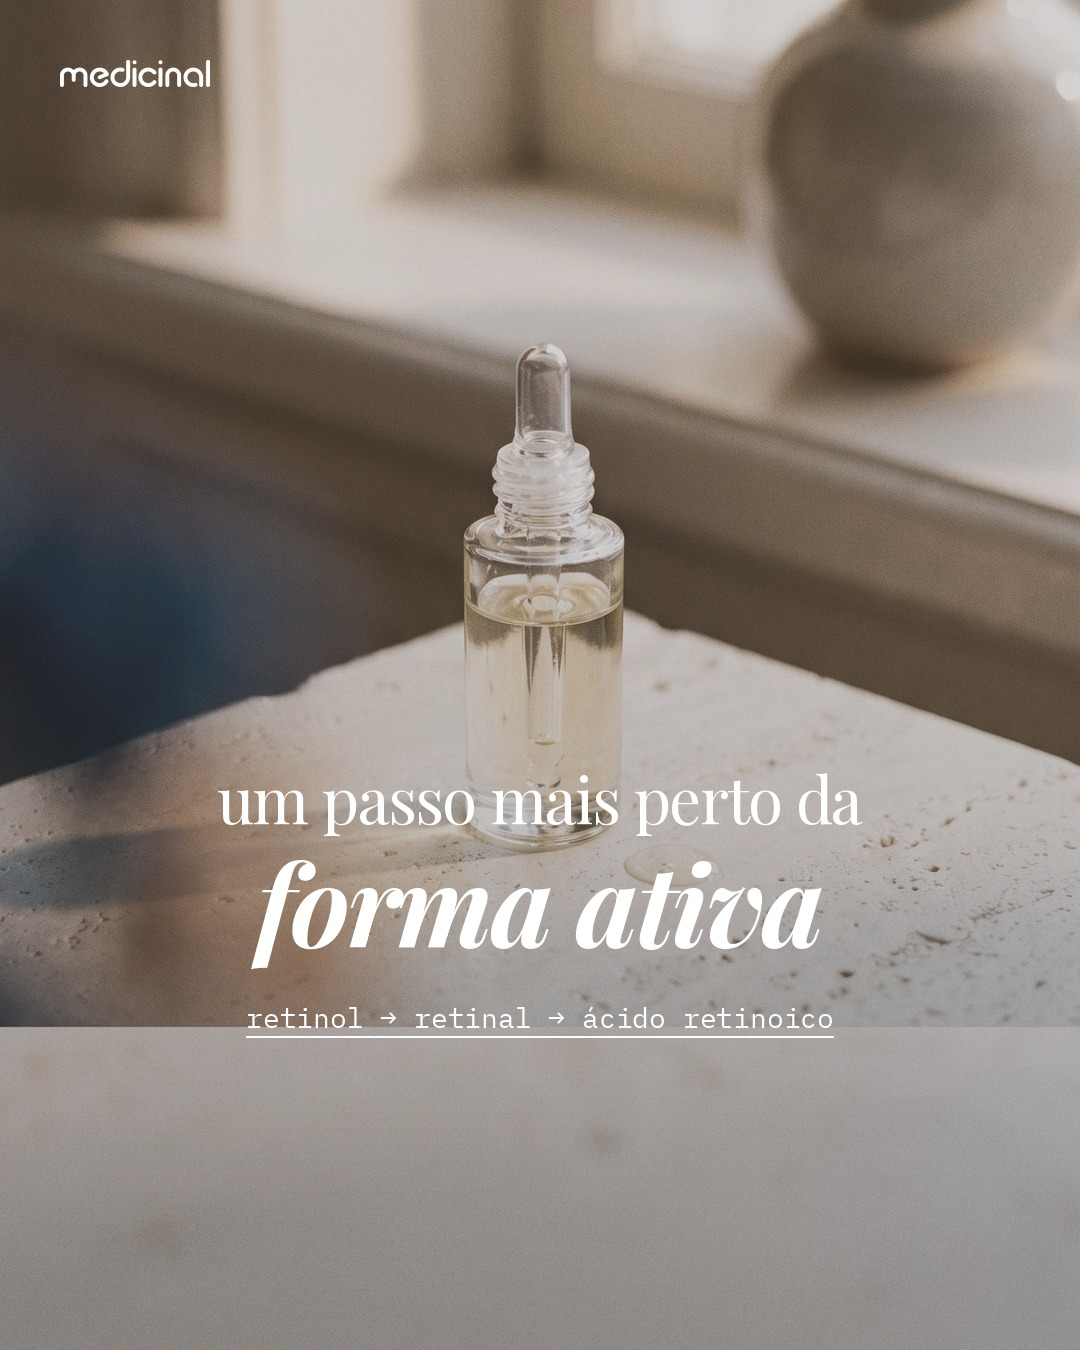
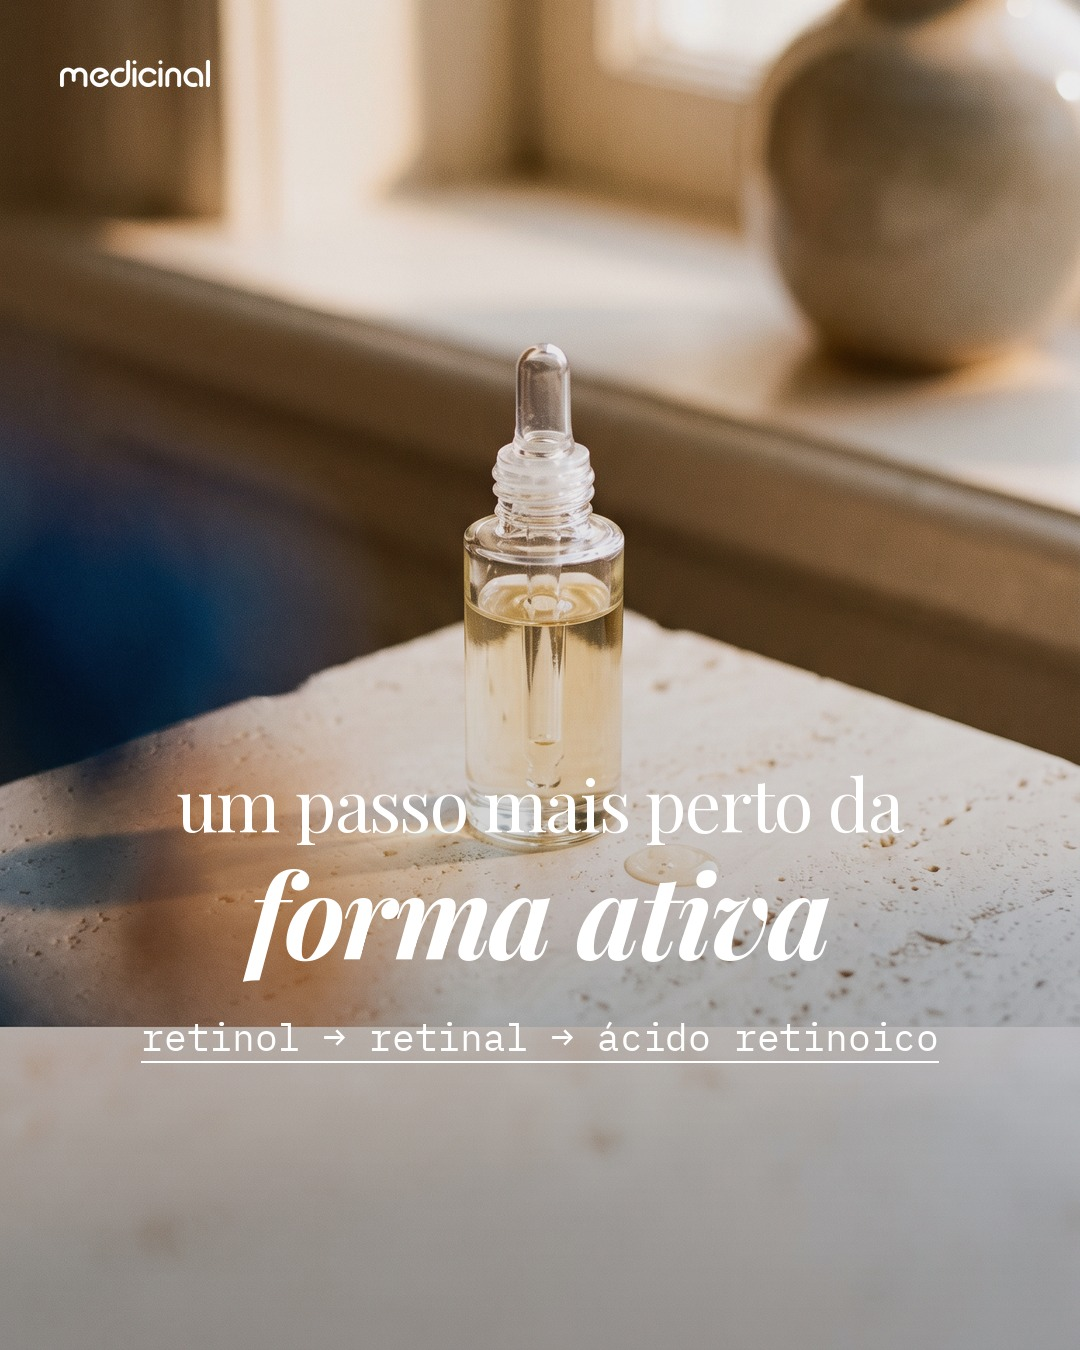
Dermo-day: filtro de cor desligado e fontes menores maiores (mono 38, rótulo 58, frase 72)
Claude-Session: https://claude.ai/code/session_01Bm6rABw341qEUcQn2o9EUx

diff --git a/grade/dermo/carrossel.py b/grade/dermo/carrossel.py
@@ -12,13 +12,15 @@ from modelos import frase_linhas, desenha_frase, espacado, A
 W, H = 1080, 1350; BR = (255, 255, 255); TAUPE = (196, 172, 160)
 POP = lambda t: ImageFont.truetype(str(A/"fonts"/"Poppins-Bold.ttf"), t)
 MONO = lambda t: ImageFont.truetype(str(A/"fonts"/"IBMPlexMono-Regular.ttf"), t)
+FILTRO = False  # filtro de cor (desatura + véu taupe + grão). Desligado a pedido do Ricardo em 13/11 para avaliar.
 def apagado(im, sat=0.62, contraste=0.9, tom=0.10):
+    if not FILTRO: return im.convert("RGB")
     im = ImageEnhance.Color(im.convert("RGB")).enhance(sat); im = ImageEnhance.Contrast(im).enhance(contraste)
     return Image.blend(im, Image.new("RGB", im.size, TAUPE), tom)
 def cobre(im, ancora=0.5):
     r = max(W/im.width, H/im.height); im = im.resize((round(im.width*r), round(im.height*r)), Image.LANCZOS)
     x = (im.width - W)//2; y = round((im.height - H) * ancora); return im.crop((x, y, x+W, y+H))
-def escurece(im, base=0.12, extra=0.22, de=0.35):
+def escurece(im, base=0.08, extra=0.26, de=0.35):
     ov = Image.new("L", (W, H), 0); d = ImageDraw.Draw(ov)
     for y in range(H): d.line([(0, y), (W, y)], fill=round(255 * (base + extra * max(0, (y - de*H) / ((1-de)*H)))))
     return Image.composite(Image.new("RGB", (W, H), (20, 16, 14)), im, ov)
@@ -26,6 +28,7 @@ def logo(img):
     lg = Image.open(A/"logo"/"medicinal-palavra-branco.png").convert("RGBA"); lg = lg.resize((150, round(lg.height*150/lg.width)), Image.LANCZOS)
     img.alpha_composite(lg, (60, 60))
 def fim(im):  # grão leve de filme
+    if not FILTRO: return im.convert("RGB")
     g = Image.effect_noise((W, H), 18).convert("L"); return Image.blend(im.convert("RGB"), Image.merge("RGB", [ImageChops.overlay(c, g) for c in im.convert("RGB").split()]), 0.18)
 def pf(t, it=False, peso=400):
     f = ImageFont.truetype(str(A/"fonts"/("PlayfairDisplay-Italic.ttf" if it else "PlayfairDisplay.ttf")), t); f.set_variation_by_axes([peso]); return f
@@ -42,9 +45,9 @@ def frase(img, y, txt, tam=64, k=1.75):
     return y
 def rotulo(img, y, txt, tam=40, track=12):
     espacado(ImageDraw.Draw(img), W/2, y, txt.upper(), POP(tam), BR, track)
-def mono(img, y, txt, tam=28):
+def mono(img, y, txt, tam=38):
     d = ImageDraw.Draw(img); f = MONO(tam); w = f.getlength(txt); d.text(((W-w)/2, y), txt, font=f, fill=BR, anchor="ls")
-    d.line([((W-w)/2, y + 9), ((W+w)/2, y + 9)], fill=BR, width=2)
+    d.line([((W-w)/2, y + 11), ((W+w)/2, y + 11)], fill=BR, width=2)
 def foto(caminho, ancora=0.5, **k): return escurece(apagado(cobre(Image.open(caminho), ancora)), **k).convert("RGBA")
 def capa(c):
     # produto de referência ofuscado sobre fundo taupe com luz suave (como os fundos de 2025)
@@ -60,13 +63,13 @@ def capa(c):
     mask = Image.new("L", p.size, 0); ImageDraw.Draw(mask).rectangle([40, 40, p.width-40, p.height-40], fill=255); mask = mask.filter(ImageFilter.GaussianBlur(30))
     base.paste(Image.composite(ImageChops.multiply(reg, p), reg, mask), (x, y))
     img = escurece(base, base=0.05, extra=0.18, de=0.5).convert("RGBA"); logo(img)
-    y = frase(img, 170, c["capa"], 62); mono(img, y + 60, c["capa_mono"])
+    y = frase(img, 170, c["capa"], 70, 1.6); mono(img, y + 70, c["capa_mono"])
     return fim(img)
 def lamina(c, chave):
     L = c[chave]; img = foto(L["foto"], L.get("ancora", 0.5)); logo(img)
-    if L.get("rotulo"): rotulo(img, L.get("y", 760), L["rotulo"], L.get("tam_rotulo", 46), 14)
-    if L.get("frase"): y = frase(img, L.get("y", 700), L["frase"], L.get("tam", 64))
-    if L.get("mono"): mono(img, L.get("y_mono", (L.get("y", 700) + 80) if L.get("rotulo") else y + 60), L["mono"])
+    if L.get("rotulo"): rotulo(img, L.get("y", 760), L["rotulo"], L.get("tam_rotulo", 58), 16)
+    if L.get("frase"): y = frase(img, L.get("y", 700), L["frase"], L.get("tam", 72), 1.6)
+    if L.get("mono"): mono(img, L.get("y_mono", (L.get("y", 700) + 95) if L.get("rotulo") else y + 70), L["mono"])
     return fim(img)
 if __name__ == "__main__":
     c = json.load(open(sys.argv[1])); out = Path(sys.argv[2]); out.mkdir(parents=True, exist_ok=True)
